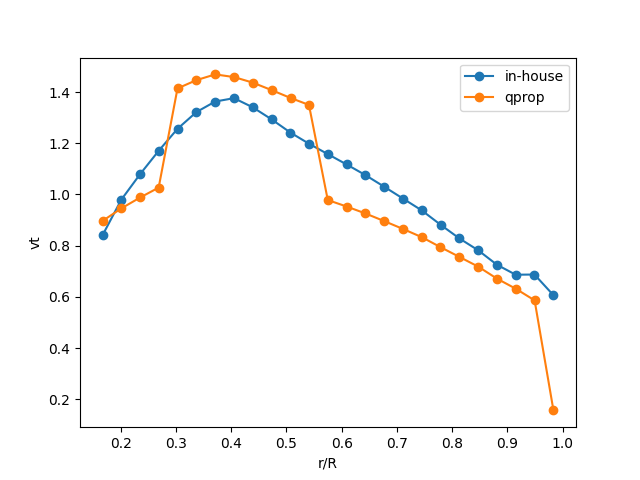
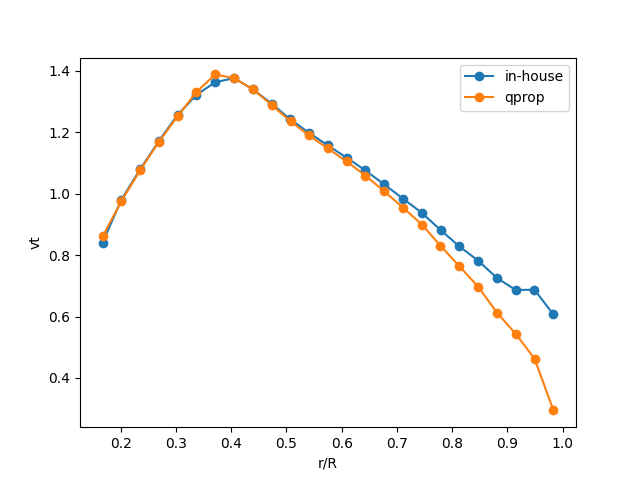
qpropのMに依存しないで計算するようにしたらヤバい飛び方はしなくなった

diff --git a/perform_analysis_qprop.py b/perform_analysis_qprop.py
@@ -110,11 +110,11 @@ qprop = np.loadtxt('qprop_validation.txt')
 qprop_r_R = qprop[:, 0] / R
 qprop_c_R = qprop[:, 1] / R
 qprop_beta = qprop[:, 2]
-qprop_W = qprop[:, 6] * 340
 qprop_Wa  = qprop[:, 9]
 qprop_cl  = qprop[:, 3]
 qprop_psi = np.arcsin((qprop_Wa - 0.5*V) / (0.5*U))
-qprop_Wt = np.sqrt(qprop_W**2 - qprop_Wa**2)
+qprop_Wt = 0.5*Ut + 0.5*U*np.cos(qprop_psi)
+qprop_W = np.sqrt(qprop_Wa**2 + qprop_Wt**2) # Mach数を使わないで計算。
 qprop_lamda = r / R * qprop_Wa / qprop_Wt
 qprop_f = B / 2 * (1 - r/R) / qprop_lamda
 qprop_F = 2 / math.pi * np.arccos(np.clip(np.exp(-qprop_f), -1, 1))
